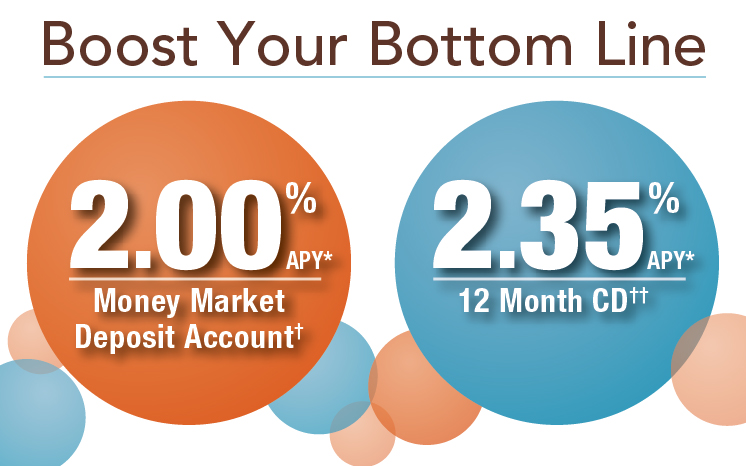
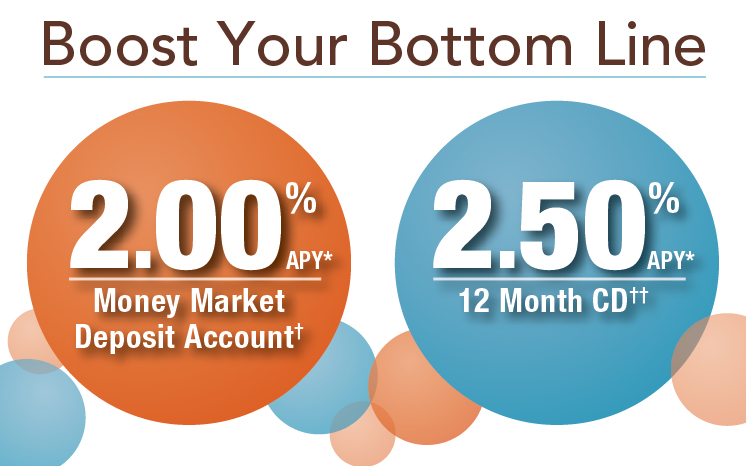
Images and Disclosure
Images and Disclosure changed due to rate changes per YvonneB.

Changed region(s): [[0.6783, 0.3906, 0.8941, 0.5708], [0.8016, 0.3605, 0.8324, 0.3906]]

diff --git a/savings.html b/savings.html
@@ -137,7 +137,7 @@
               </div>
             </div><!-- row -->
             <div class="row spacer">
-              <p class="small para-margin"><sup>*</sup>Annual Percentage Yield (APY) <sup>†</sup>Money Market Deposit Account: Promotional rate of 2.00% APY for new accounts effective as of 10/15/18 and guaranteed for the first 365 days after account opening. Promotional rate offered on $10,000.00 or more of new money not currently on deposit within last 30 days with CIBM Bank. Minimum opening deposit of $100.00. The interest rate is subject to change at any time after initial 365 days. As of 10/10/18 Personal Money Market balances of $0.00-$9,999.99 (.08% APY); $10,000.00-$24,999.99 (.10% APY); $25,000.00-$49,999.99 (.13% APY); $50,000.00-$99,999.99 (.14% APY); $100,000.00 and above (.15% APY). Monthly fee $2.00 per debit if $1,000.00 minimum balance not maintained. As of 10/10/18 Business Money Market balances of $0.00-$9,999.99 (.08% APY); $10,000.00-$24,999.99 (.10% APY); $25,000.00-$49,999.99 (.13% APY); $50,000.00-$99,999.99 (.14% APY); $100,000.00 and above (.15% APY). Monthly fee $15.00 service charge if $5,000.00 minimum balance not maintained. Fees may reduce earnings. Accounts closed within 6 months of opening date subject to a $25.00 closing fee.  <sup>††</sup>12 Month Certificate of Deposit & IRA: Promotional rate of 2.35% (APY) effective as of 10/15/18 and guaranteed for the term of the account. Offer limited to $10,000.00 or more of new money not currently on deposit within last 30 days with CIBM Bank. Minimum opening deposit of $2,500.00 and a maximum of $250,000.00. Withdrawals made prior to maturity may be subject to an early withdrawal penalty. Offer not available in combination with any other offer.</p>
+              <p class="small para-margin"><sup>*</sup>Annual Percentage Yield (APY) <sup>†</sup>Money Market Deposit Account: Promotional rate of 2.00% APY for new accounts effective as of 10/15/18 and guaranteed for the first 365 days after account opening. Promotional rate offered on $10,000.00 or more of new money not currently on deposit within last 30 days with CIBM Bank. Minimum opening deposit of $100.00. The interest rate is subject to change at any time after initial 365 days. As of 10/10/18 Personal Money Market balances of $0.00-$9,999.99 (.08% APY); $10,000.00-$24,999.99 (.10% APY); $25,000.00-$49,999.99 (.13% APY); $50,000.00-$99,999.99 (.14% APY); $100,000.00 and above (.15% APY). Monthly fee $2.00 per debit if $1,000.00 minimum balance not maintained. As of 10/10/18 Business Money Market balances of $0.00-$9,999.99 (.08% APY); $10,000.00-$24,999.99 (.10% APY); $25,000.00-$49,999.99 (.13% APY); $50,000.00-$99,999.99 (.14% APY); $100,000.00 and above (.15% APY). Monthly fee $15.00 service charge if $5,000.00 minimum balance not maintained. Fees may reduce earnings. Accounts closed within 6 months of opening date subject to a $25.00 closing fee.  <sup>††</sup>12 Month Certificate of Deposit & IRA: Promotional rate of 2.50% (APY) effective as of 10/29/18 and guaranteed for the term of the account. Offer limited to $10,000.00 or more of new money not currently on deposit within last 30 days with CIBM Bank. Minimum opening deposit of $2,500.00 and a maximum of $250,000.00. Withdrawals made prior to maturity may be subject to an early withdrawal penalty. Offer not available in combination with any other offer.</p>
             </div><!-- row -->
             <div class="row spacer">
               <div class="col-md-6">
